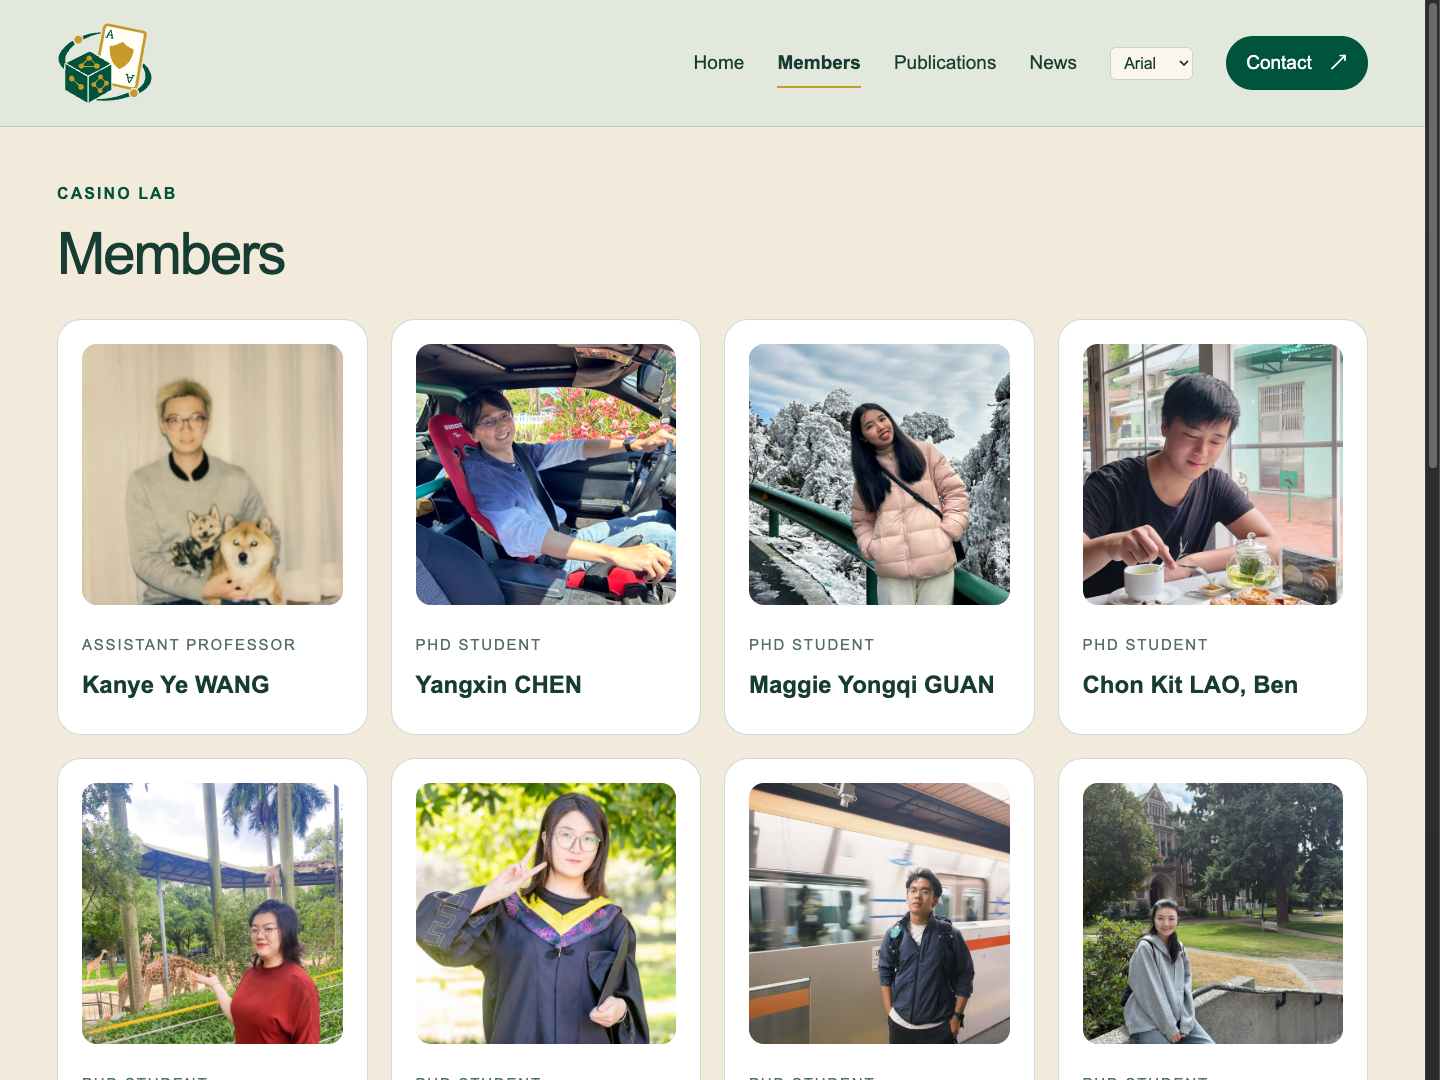
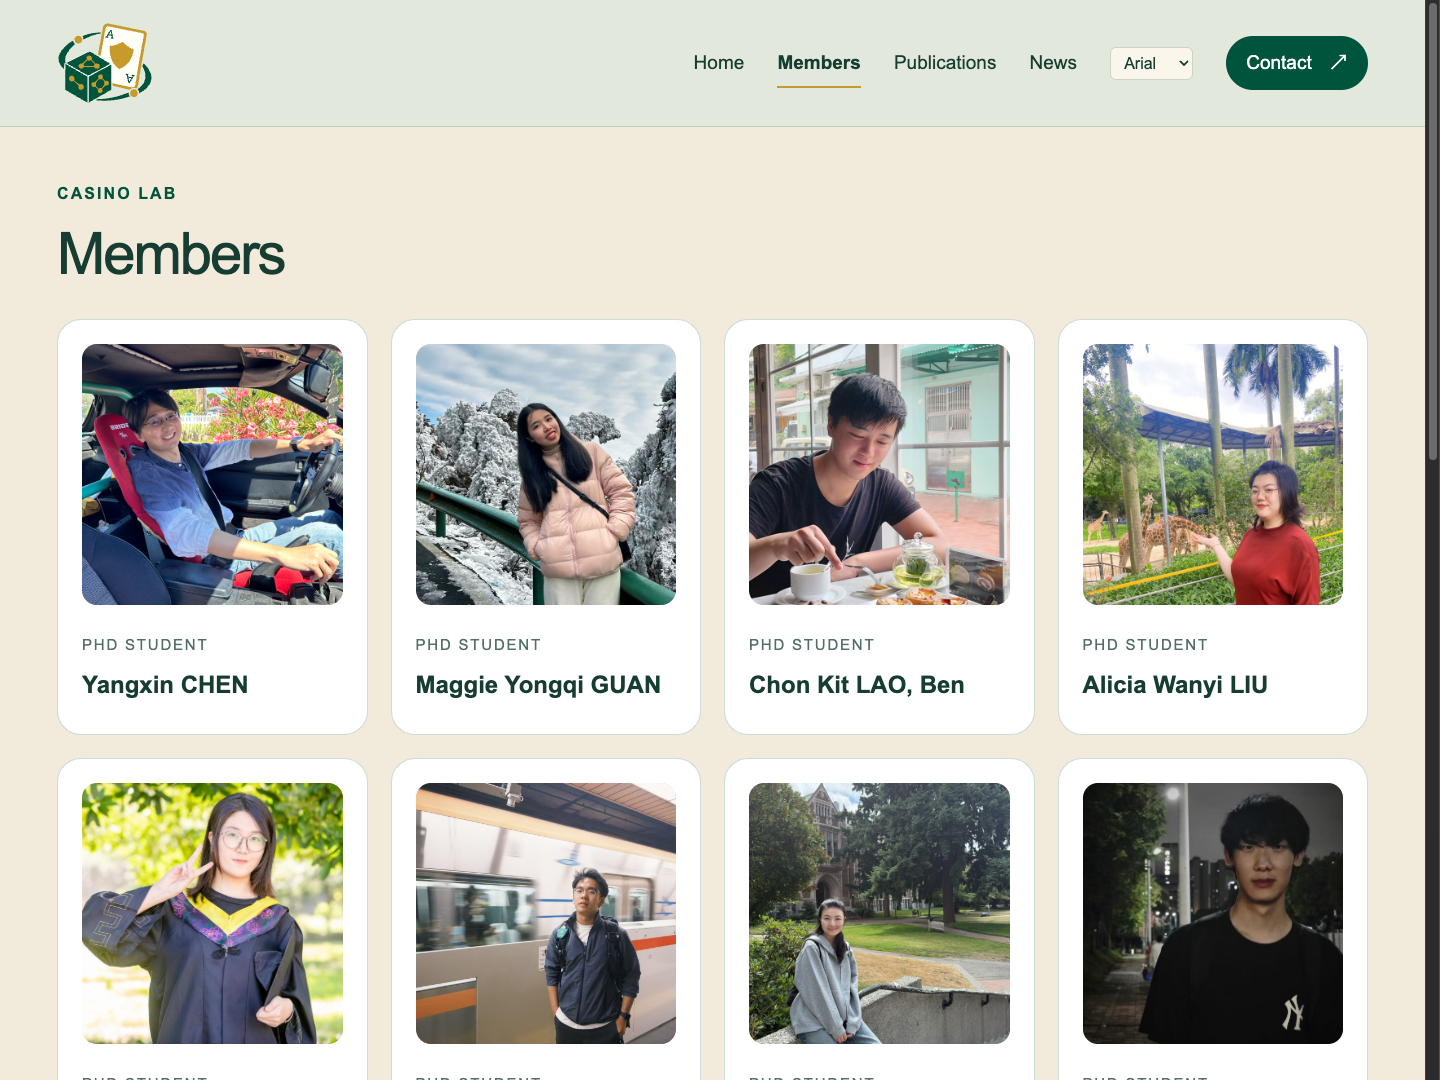
Update Site source

diff --git a/dist/lab.js b/dist/lab.js
@@ -41,6 +41,11 @@ function paperLink(p,title=p.title) {
   const url=paperPage(p);
   return url?`<a href="${esc(url)}" ${url.startsWith('#')?'':'target="_blank" rel="noopener"'}>${esc(title)}</a>`:esc(title);
 }
+function alumniDate(value) {
+  const monthOnly=value.length===7;
+  const date=new Date(monthOnly?`${value}-01`:value);
+  return new Intl.DateTimeFormat('en', {year:'numeric',month:'long',...(monthOnly?{}:{day:'numeric'}),timeZone:'UTC'}).format(date);
+}
 function photoStack() {
   const ids=data.siteSettings.heroPhotoAssetIds.filter(id=>asset(id));
   if(!ids.length)return '';
@@ -80,7 +85,9 @@ function people(id) {
     const related=p.getPapers(data.publications);
     content.innerHTML=`<a class="breadcrumb" href="#member">← Members</a>${heading(p.name,p.title,p.state==='alumni'?'ALUMNI':'MEMBER')}<div class="profile-layout"><aside>${image(p.portraitAssetId,'profile-portrait')}</aside><section><div class="prose">${prose(p.bioMarkdown)}</div>${p.interests.length?`<h2>Research interests</h2><div class="tag-row">${p.interests.map(i=>`<span class="tag">${esc(i)}</span>`).join('')}</div>`:''}${emailLink(p.publicEmail)}<div class="profile-links">${p.links.map(l=>link(l.url,l.label)).join('')}</div>${p.alumniDestination?`<p>${esc(p.alumniDestination)}</p>`:''}</section></div><section class="member-papers bottom-space"><div class="section-heading"><h2>Publications</h2><span>${related.length} papers</span></div>${related.length?related.map(paperRow).join(''):'<p>No publications listed yet.</p>'}</section>`;return;
   }
-  const cards=state=>data.people.filter(p=>p.state===state).map(p=>`<article class="person"><div class="avatar">${image(p.portraitAssetId)}</div>${state==='member'&&p.title?`<span class="news-type">${esc(p.title)}</span>`:''}<h3>${memberLink(p)}</h3>${state==='alumni'&&p.alumniSince?`<p class="alumni-date">Alumni since <time datetime="${esc(p.alumniSince)}">${esc(p.alumniSince)}</time></p>`:''}</article>`).join('');
+  const cards=state=>data.people.filter(p=>p.state===state)
+    .sort((a,b)=>a.familyName.localeCompare(b.familyName,'en')||a.name.localeCompare(b.name,'en'))
+    .map(p=>`<article class="person"><div class="avatar">${image(p.portraitAssetId)}</div>${state==='member'&&p.title?`<span class="news-type">${esc(p.title)}</span>`:''}<h3>${memberLink(p)}</h3>${state==='alumni'&&p.alumniSince?`<p class="alumni-date"><time datetime="${esc(p.alumniSince)}">${esc(alumniDate(p.alumniSince))}</time></p>`:''}</article>`).join('');
   content.innerHTML=`<section aria-label="Members">${heading('Members')}<div class="people-grid" id="current-members">${cards('member')}</div></section><section aria-labelledby="alumni-heading"><h2 id="alumni-heading">Alumni</h2><div class="people-grid" id="alumni-members">${cards('alumni')}</div></section>`;
 }
 

diff --git a/contracts/example.ts b/contracts/example.ts
@@ -21,7 +21,7 @@ export default {
   }],
   people: [
     {
-      ...common, id: 'person-alex', slug: 'alex-example', name: 'Alex Example', preferredName: null,
+      ...common, id: 'person-alex', slug: 'alex-example', name: 'Alex Example', familyName: 'Example', preferredName: null,
       title: 'Doctoral researcher', affiliation: 'Example University', portraitAssetId: null,
       bioMarkdown: 'Sample profile for API integration.', researchAreaIds: ['area-privacy'], interests: ['Privacy'],
       memberships: [
@@ -31,11 +31,11 @@ export default {
       state: 'member', alumniSince: null, alumniDestination: null, publicEmail: null, links: [{ label: 'Website', url: 'https://example.org/alex' }], sortOrder: 1,
     },
     {
-      ...common, id: 'person-sam', slug: 'sam-example', name: 'Sam Example', preferredName: null,
+      ...common, id: 'person-sam', slug: 'sam-example', name: 'Sam Example', familyName: 'Example', preferredName: null,
       title: null, affiliation: 'Example Research Institute', portraitAssetId: null,
       bioMarkdown: 'Sample former member.', researchAreaIds: ['area-privacy'], interests: ['Security'],
       memberships: [{ role: 'phd_student', isCurrent: false, startedOn: null, endedOn: null }],
-      state: 'alumni', alumniSince: '2026-06-01', alumniDestination: 'Example Research Institute', publicEmail: null, links: [], sortOrder: 2,
+      state: 'alumni', alumniSince: '2026-06', alumniDestination: 'Example Research Institute', publicEmail: null, links: [], sortOrder: 2,
     },
   ],
   publications: [{

diff --git a/contracts/models.ts b/contracts/models.ts
@@ -1,9 +1,10 @@
 /** CASINO website content contract v1. See README.md for validation and API rules.
  * These are wire types, not database models. IDs are opaque, stable strings.
- * Dates use YYYY-MM-DD; instants use RFC 3339 with an explicit timezone.
+ * Dates use YYYY-MM-DD (YYYY-MM for month-only alumni dates); instants use RFC 3339 with an explicit timezone.
  */
 export type ID = string;
 export type DateOnly = string;
+export type YearMonth = string;
 export type Instant = string;
 export type HttpUrl = string;
 /** HTTP(S) URL or a local ./assets/... or /assets/... path, relative to the page. */
@@ -49,6 +50,7 @@ export interface Membership {
 
 export interface Person extends Content {
   name: string;
+  familyName: string;
   preferredName: string | null;
   title: string | null;
   affiliation: string | null;
@@ -58,7 +60,7 @@ export interface Person extends Content {
   interests: string[];
   memberships: Membership[];
   state: 'member' | 'alumni';
-  alumniSince: DateOnly | null;
+  alumniSince: DateOnly | YearMonth | null;
   alumniDestination: string | null;
   publicEmail: string | null;
   links: Link[];

diff --git a/scripts/migrate-crab.py b/scripts/migrate-crab.py
@@ -132,11 +132,14 @@ def import_person(record):
     if any(re.search(r'security|privacy|ethereum|web3|ebpf', interest, re.I) for interest in interests): research.append('security')
     if any(re.search(r'hci|programming|metaverse|human|tourism|ubiquitous|physical ai|generative ai', interest, re.I) for interest in interests): research.append('hci')
     if id == 'pi': research = ['security','hci']
-    person = dict(**base(id, url), name=canonical[id], preferredName='Ben' if id=='ben' else None,
+    person = dict(**base(id, url), name=canonical[id], familyName=canonical[id].split(',')[0].split()[-1],
+                  preferredName='Ben' if id=='ben' else None,
                   title='Assistant Professor' if id=='pi' else 'MSc alumnus' if id=='jinchen-yu' else 'PhD alumnus' if former else 'PhD Student',
                   affiliation='University of Macau', portraitAssetId=asset['id'], bioMarkdown=bio, researchAreaIds=research,
                   interests=interests, memberships=[dict(role=roles,isCurrent=not former,startedOn=None,endedOn=None)],
-                  state='alumni' if former else 'member', alumniSince=None, alumniDestination=None,
+                  state='alumni' if former else 'member',
+                  alumniSince={'zhuangtonghuang': '2026-10', 'jinchen-yu': '2025-06'}.get(id) if former else None,
+                  alumniDestination=None,
                   publicEmail=email, links=links, sortOrder=0 if id=='pi' else list(canonical).index(id)+1)
     return person, asset
 

diff --git a/CONTENT-MIGRATION.md b/CONTENT-MIGRATION.md
@@ -38,7 +38,7 @@ Research areas retain the source's two categories. Member-area associations are 
 
 ## Source discrepancies to review
 
-1. The live directory places Molly Zhuangtong Huang in Alumni (PhD, October 2026), although her older profile and search caches still say PhD Student. Directory status is used. Brian Jincheng Yu is listed as MSc, June 2025. Exact graduation days are not given, so membership dates remain null and month-level information stays in the biography.
+1. The live directory places Molly Zhuangtong Huang in Alumni (PhD, October 2026), although her older profile and search caches still say PhD Student. Brian Jincheng Yu is listed as MSc, June 2025. Both dates appear on the alumni cards and use month precision in `alumniSince`; exact membership end days remain unknown.
 2. Yangxin Chen's visible email is `yc67847@um.edu.mo`, but the source mailto target is `yc67537@um.edu.mo`. His publicEmail is null until confirmed; the original profile and personal website remain linked.
 3. Maury Junjie Qing and Green Chunlin Wang both list `yc67537@um.edu.mo`. These visible addresses are preserved for review.
 4. One member profile additionally lists “Safeguarding the Unseen: a Study on Data Privacy in DeFi Protocols” without a year. The title, authors and venue are retained in Molly's biography, outside the dated publication archive.

diff --git a/contracts/README.md b/contracts/README.md
@@ -32,7 +32,8 @@ SiteSettings ──→ Asset / Publication
 
 - `memberships` 保留角色历史。例如先 RA 后 PhD，只更新履历，不新增一个人。
 - `state: "member" | "alumni"` 决定成员在目录中的分组；`memberships[].isCurrent` 仅表示某条角色履历是否仍在进行。
-- `alumniSince` 记录离组日期，格式为 `YYYY-MM-DD`，未知时填 `null`。当前成员填 `null`；校友日期未填时页面不显示日期。
+- `familyName` 是用于目录排序的姓氏，例如 Chon Kit LAO, Ben 的姓氏填 `LAO`。每组按姓氏、显示姓名依次排序。
+- `alumniSince` 记录离组日期，格式为 `YYYY-MM-DD` 或 `YYYY-MM`，按已知精度填写；未知或当前成员填 `null`。
 - 起止日期未知填 null，不编造日期；当前履历的 `endedOn` 必须为 null。已离组成员可以保留未知离组日期。
 - `alumniDestination` 保存离组后的去向；`publicEmail` 只存已同意公开的邮箱。
 
